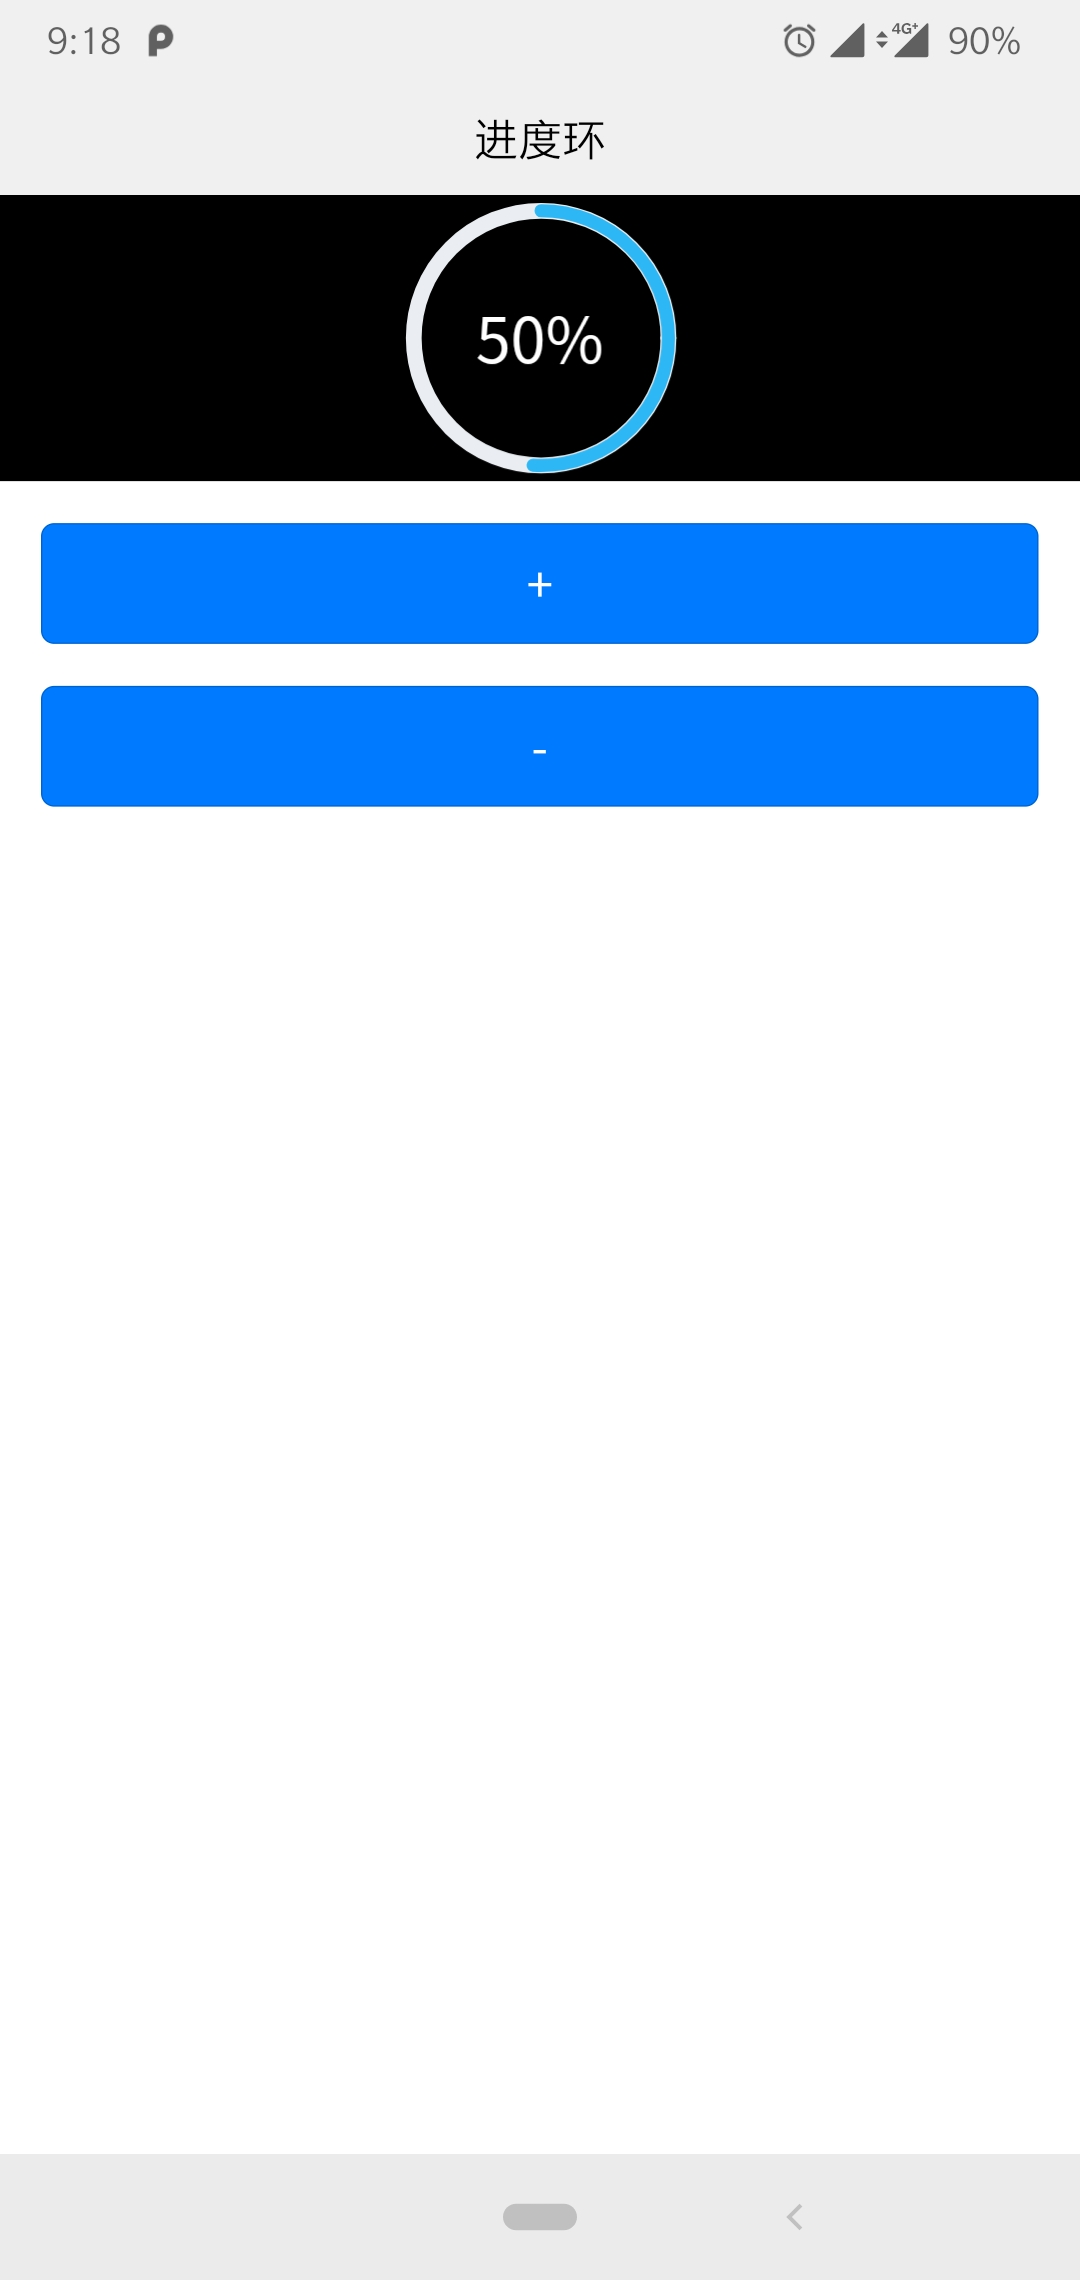
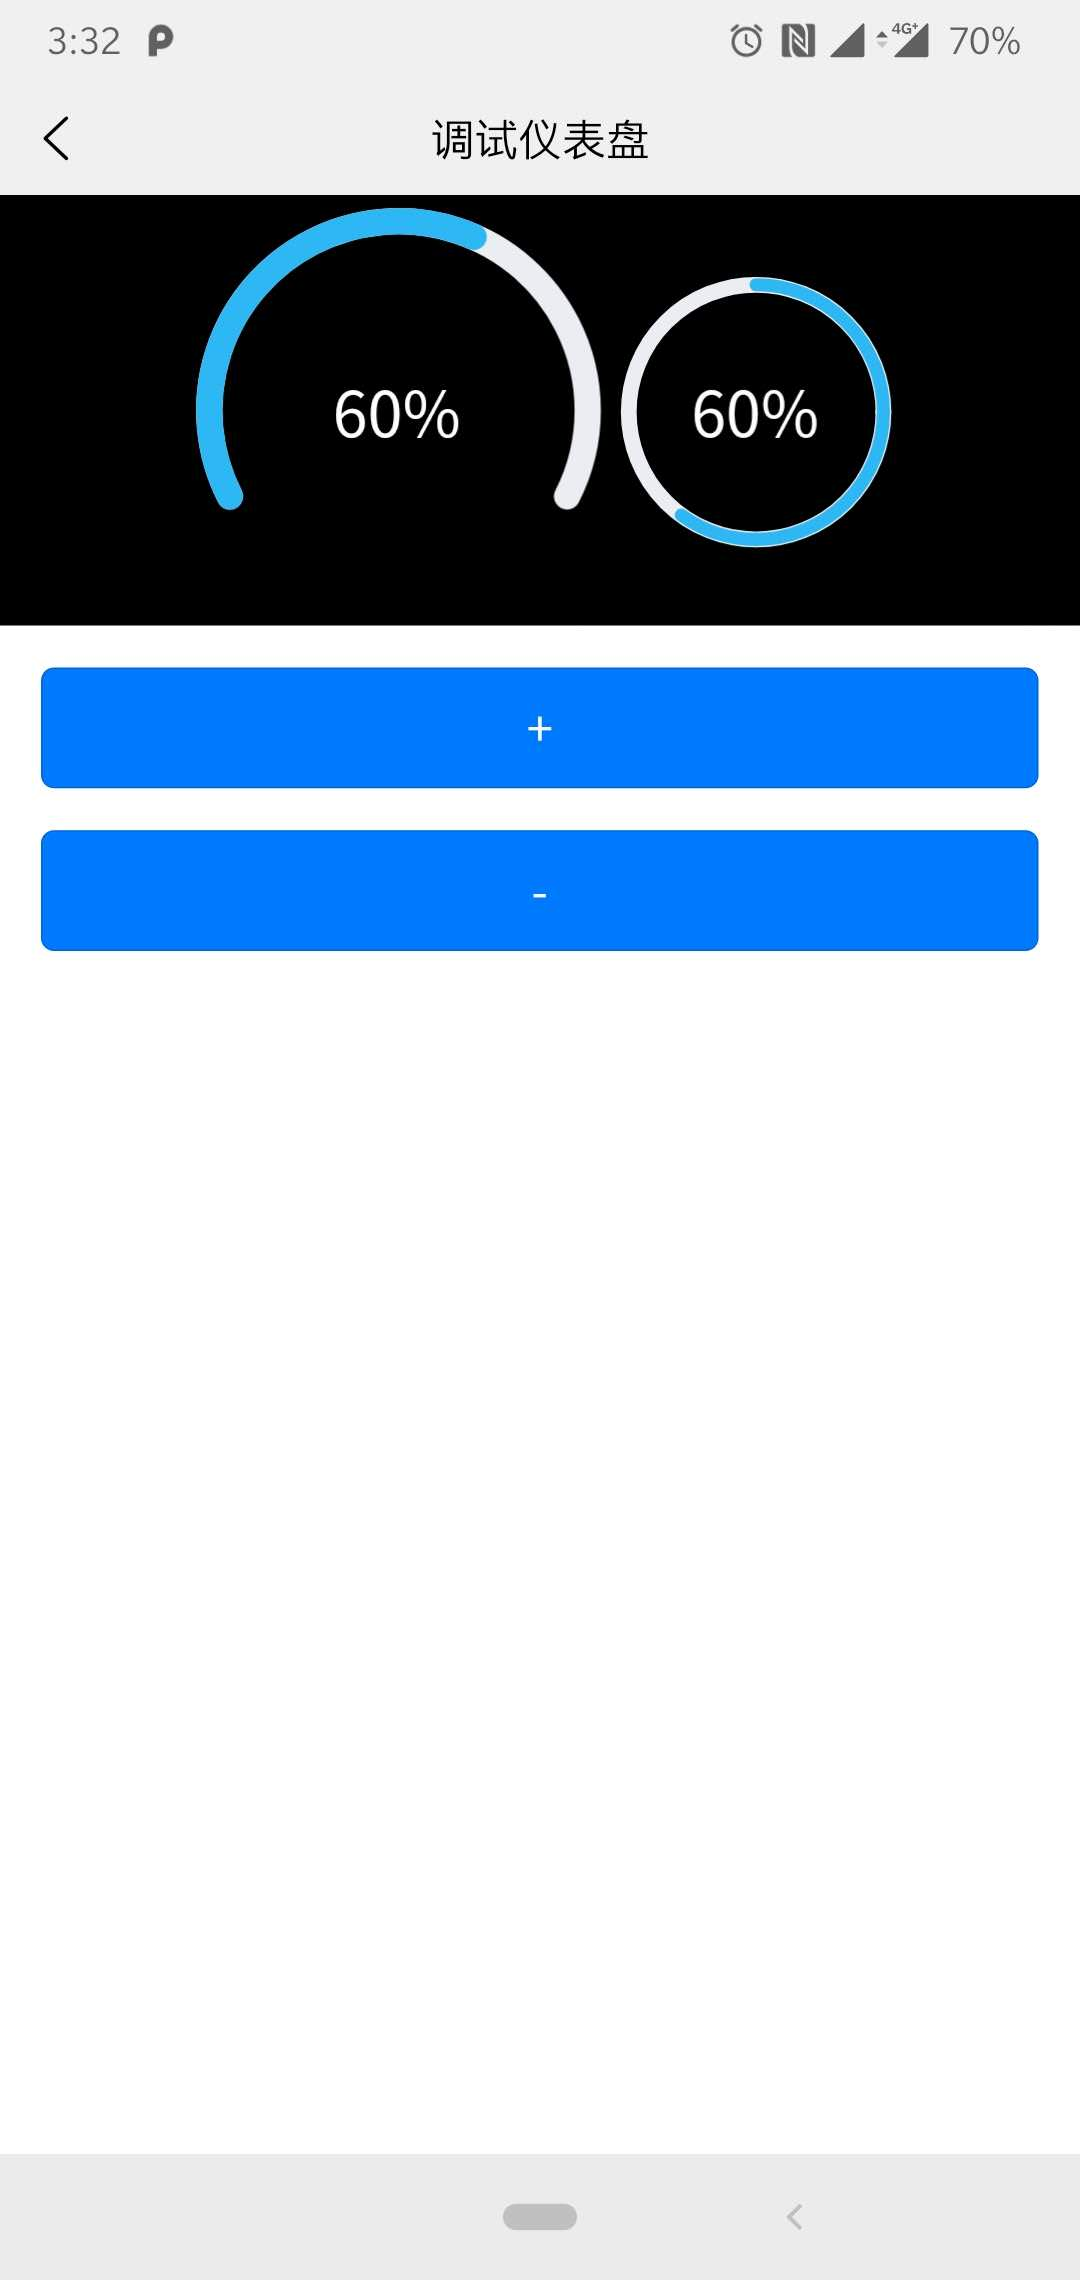
v1.2
增加不封闭的进度环

Changed region(s): [[0.0, 0.0311, 1.0, 0.436], [0.6722, 0.0, 0.7639, 0.0311], [0.0611, 0.0, 0.1222, 0.0311]]

diff --git a/components/xiaoran-circle/xiaoran-circle.vue b/components/xiaoran-circle/xiaoran-circle.vue
@@ -6,7 +6,7 @@
 		}"
 		class="circle_box"
 	>
-		<view v-if="!BgId && !InId">
+		<view v-if="isDefault">
 			<canvas
 				class="CanvasBox strokeCanvas"
 				canvas-id="BgCanvas"
@@ -65,23 +65,37 @@
 				default: "#eaeef2"
 			},
 			BgId: {
-				// BgId背景圆环CanvasID
+				// BgId
 				type: String,
 				default: "BgCanvas"	
 			},
 			InId: {
-				// IgId进度圆环CanvasID
+				// InId
 				type: String,
 				default: "InCanvas"	
+			},
+			dashboard: {
+				// 仪表盘
+				type: Boolean,
+				default: false
+			},
+			start: {
+				// 仪表盘起始角度
+				type: Number,
+				default: 27
 			}
 		},
 		data() {
 			return {
 				selfPercent: 0,
-				type: "add"
+				type: "add",
+				T: null
 			}
 		},
 		computed: {
+			isDefault() {
+				return this.BgId == "BgCanvas" || this.InId == "InCanvas";
+			},
 			UniSize() {
 				// 转换为upx
 				return uni.upx2px(this.size);
@@ -109,6 +123,34 @@
 			},
 			radius() {
 				return this.center_x - this.BgWidth - Math.abs(this.BgWidth - this.lineWidth);
+			},
+			startDeg() {
+				return Math.PI * (1 - this.start/180);
+			},
+			countDeg() {
+				return this.start * 2 + 180;
+			},
+			fillDegArr() {
+				let start, end;
+				if (this.dashboard) {
+					start = this.startDeg;
+					end = Math.PI*this.selfPercent/100*this.countDeg/180 + this.startDeg;
+				} else {
+					start = -Math.PI/2;
+					end = -Math.PI/2 + this.selfPercent * this.rad;
+				}
+				return {start, end};
+			},
+			bgDegArr() {
+				let start, end;
+				if (this.dashboard) {
+					start = this.startDeg;
+					end = Math.PI*this.countDeg/180 + this.startDeg;
+				} else {
+					start = 0;
+					end = Math.PI * 2;
+				}
+				return {start, end};
 			}
 		},
 		methods: {
@@ -117,8 +159,10 @@
 				this.requestAnimationFrame();
 			},
 			requestAnimationFrame() {
+				console.log("requestAnimationFrame");
 				if (this.type == "add") {
-					if (this.selfPercent > this.percent) {
+					if (this.selfPercent >= this.percent) {
+						clearTimeout(this.T);
 						return;
 					}
 					this.selfPercent++;
@@ -126,7 +170,8 @@
 						this.selfPercent = 100;
 					}
 				} else {
-					if (this.selfPercent < this.percent) {
+					if (this.selfPercent <= this.percent) {
+						clearTimeout(this.T);
 						return;
 					}
 					this.selfPercent--;
@@ -135,7 +180,7 @@
 					}
 				}
 				this.foregroundCircle();
-				setTimeout(this.requestAnimationFrame, 5);
+				this.T = setTimeout(this.requestAnimationFrame, 5);
 			},
 			backgroundCircle() {
 				const context = uni.createCanvasContext(this.BgId);
@@ -149,7 +194,8 @@
 				context.setLineCap("round");
 				context.setStrokeStyle(this.trailColor);
 				//用于绘制圆弧context.arc(x坐标，y坐标，半径，起始角度，终止角度，顺时针/逆时针)
-				context.arc(this.center_x, this.center_y, this.radius, 0, Math.PI * 2, false);
+				// context.arc(this.center_x, this.center_y, this.radius, 0, Math.PI * 2, false);
+				context.arc(this.center_x, this.center_y, this.radius , this.bgDegArr.start, this.bgDegArr.end, false);
 				context.stroke();
 				// 结束绘制路径
 				context.closePath();
@@ -165,7 +211,7 @@
 				context.setLineWidth(this.BgWidth); //设置线宽
 				context.setLineCap("round");
                 context.beginPath();
-                context.arc(this.center_x, this.center_y, this.radius , -Math.PI/2, -Math.PI/2 + this.selfPercent * this.rad, false);
+				context.arc(this.center_x, this.center_y, this.radius , this.fillDegArr.start, this.fillDegArr.end, false);
                 context.stroke();
                 context.closePath();
                 context.restore();

diff --git a/pages/xiaoran-circle/xiaoran-circle.vue b/pages/xiaoran-circle/xiaoran-circle.vue
@@ -1,11 +1,24 @@
 <template>
 	<view class="box">
 		<view class="view_box">
-			<Circle :percent="percent" size="200" :stroke-color="color">
+			<Circle
+				:percent="percent"
+				size="300"
+				:stroke-color="color"
+				stroke-width="20"
+				trail-width="20"
+				dashboard="true"
+			>
 				<icon v-if="percent == 100" type="success" size="60" color="#5cb85c" />
 				<text v-else style="font-size:24px; color: #FFFFFF;">{{ percent }}%</text>
 			</Circle>
-			<Circle :percent="percent" size="200" :stroke-color="color" BgId="BgId" InId="InId">
+			<Circle
+				:percent="percent"
+				:size="200"
+				:stroke-color="color"
+				BgId="BgId"
+				InId="InId"
+			>
 				<icon v-if="percent == 100" type="success" size="60" color="#5cb85c" />
 				<text v-else style="font-size:24px; color: #FFFFFF;">{{ percent }}%</text>
 				<view slot="canvas">
@@ -28,7 +41,7 @@
 </template>
 
 <script>
-	import Circle from '@/pages/common/xiaoran-canvas-circle/xiaoran-circle.vue';
+	import Circle from '@/pages/common/xiaoran-canvas-dashboard/xiaoran-circle.vue';
 	export default {
 		components: {
 			Circle

diff --git a/README.md b/README.md
@@ -5,8 +5,17 @@
 参考pages/xiaoran-circle/xiaoran-circle.vue引入组件
 组件地址：components/xiaoran-circle/xiaoran-circle.vue
 
-##最新更新
-应[@lcysgsg](https://github.com/lcysgsg "@lcysgsg")的提交 修改了其中template语法问题
+##下一版本待定
+```
+下一版本打算支持刻度线或者增加圆弧的空白间隔
+```
+
+##v1.2更新说明
+```
+1.修复template语法
+2.调整圆形的绘制方法
+3.增加不封闭的进度环参数
+```
 
 ##v1.1更新说明
 ```
@@ -62,6 +71,16 @@ props: {
 		// IgId进度圆环CanvasID
 		type: String,
 		default: "InCanvas"
+	},
+	dashboard: {
+		// 仪表盘
+		type: Boolean,
+		default: false
+	},
+	start: {
+		// 仪表盘起始角度 -> 和x轴的夹角
+		type: Number,
+		default: 27
 	}
 },
 ```
@@ -72,31 +91,42 @@ props: {
 ··
 ···
 
-
-	<Circle :percent="percent" size="200" :stroke-color="color">
-		<icon v-if="percent == 100" type="success" size="60" color="#5cb85c" />
-		<text v-else style="font-size:24px; color: #FFFFFF;">{{ percent }}%</text>
-	</Circle>
-
-	<Circle :percent="percent" size="200" :stroke-color="color" BgId="BgId" InId="InId">
-		<icon v-if="percent == 100" type="success" size="60" color="#5cb85c" />
-		<text v-else style="font-size:24px; color: #FFFFFF;">{{ percent }}%</text>
-		<view slot="canvas">
-			<canvas
-				class="CanvasBox strokeCanvas"
-				canvas-id="BgId"
-			></canvas>
-			<canvas
-				class="CanvasBox trailCanvas"
-				canvas-id="InId"
-			></canvas>
-		</view>
-	</Circle>
+			<Circle
+				:percent="percent"
+				size="300"
+				:stroke-color="color"
+				stroke-width="20"
+				trail-width="20"
+				dashboard="true"
+			>
+				<icon v-if="percent == 100" type="success" size="60" color="#5cb85c" />
+				<text v-else style="font-size:24px; color: #FFFFFF;">{{ percent }}%</text>
+			</Circle>
+			<Circle
+				:percent="percent"
+				:size="200"
+				:stroke-color="color"
+				BgId="BgId"
+				InId="InId"
+			>
+				<icon v-if="percent == 100" type="success" size="60" color="#5cb85c" />
+				<text v-else style="font-size:24px; color: #FFFFFF;">{{ percent }}%</text>
+				<view slot="canvas">
+					<canvas
+						class="CanvasBox strokeCanvas"
+						canvas-id="BgId"
+					></canvas>
+					<canvas
+						class="CanvasBox trailCanvas"
+						canvas-id="InId"
+					></canvas>
+				</view>
+			</Circle>
 
 ···
 
 <script>
-	import Circle from '@/pages/common/xiaoran-canvas-circle/xiaoran-circle.vue';
+	import Circle from '@/components/xiaoran-circle/xiaoran-circle.vue';
 	export default {
 		components: {
 			Circle
@@ -134,7 +164,7 @@ props: {
 ```
 
 ## 预览图：
-![preview](https://github.com/FontEndArt/uni-circle/blob/master/preview.jpg?raw=true "preview")
-![单页面引入多个](https://github.com/FontEndArt/uni-circle/blob/master/preview.png?raw=true "单页面引入多个")
+![预览图](https://github.com/FontEndArt/uni-circle/blob/master/preview.jpg?raw=true "预览图")
 
 [uni-app插件市场](https://ext.dcloud.net.cn/ "uni-app插件市场")
+
